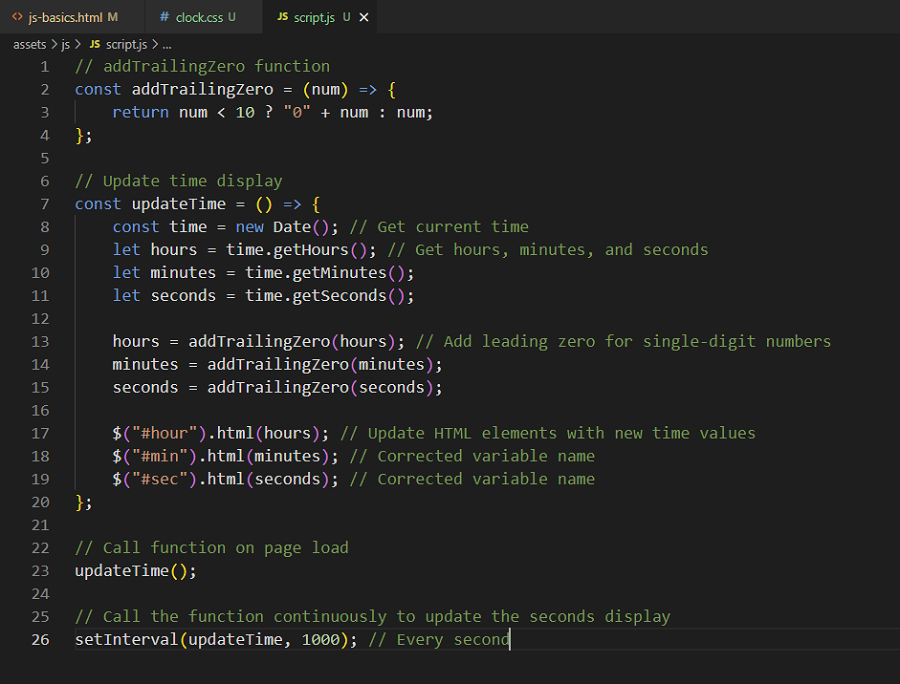
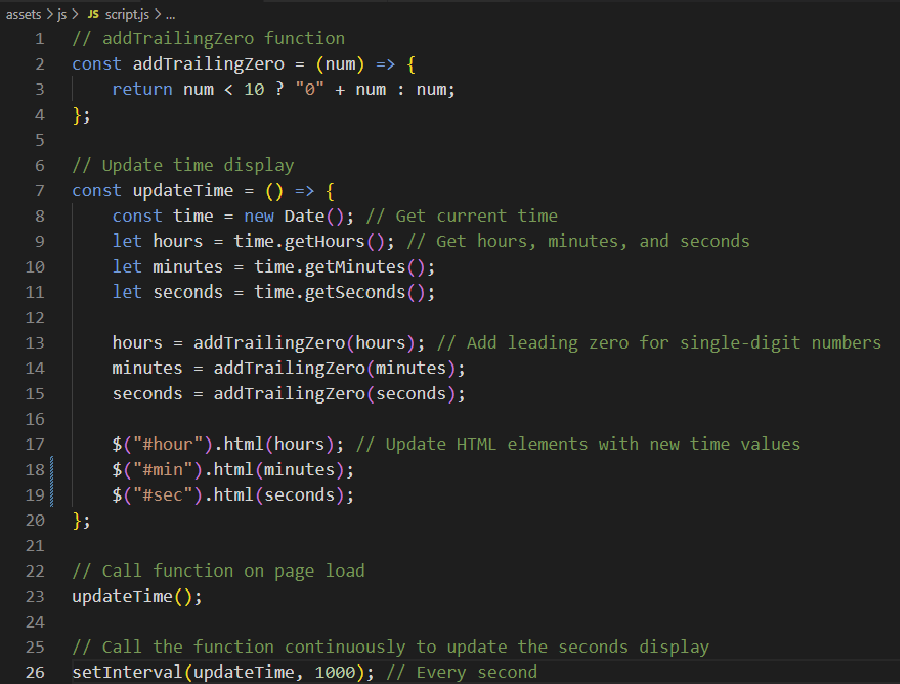
update js-basics website, new image and js code

Changed region(s): [[0.0, 0.0, 0.84, 1.0], [0.1244, 0.614, 0.9022, 0.7368], [0.1244, 0.4912, 0.9644, 0.5833]]

diff --git a/contact.html b/contact.html
@@ -12,14 +12,16 @@
         content="career change, frontend, web developer, new career at 50, new career at 40 , starting a new career at 50, career change 45+" />
     <meta name="author" content="Kal Development - Lorry127" />
     <!-- Title -->
-    <title>title</title>
+    <title>Contact</title>
     <!-- Favicon -->
     <link rel="apple-touch-icon" sizes="180x180" href="assets/favicon/apple-touch-icon.png">
     <link rel="icon" type="image/png" sizes="32x32" href="assets/favicon/favicon-32x32.png">
     <link rel="icon" type="image/png" sizes="16x16" href="assets/favicon/favicon-16x16.png">
     <link rel="manifest" href="assets/favicon/site.webmanifest" />
-    <!-- Stylesheet -->
+    <!-- Stylesheet Global -->
     <link rel="stylesheet" href="assets/css/style.css" />
+    <!-- Stylesheet Form -->
+    <link rel="stylesheet" href="assets/css/form.css">
 </head>
 
 <body>
@@ -49,7 +51,62 @@
 
     <!-- Main content -->
     <main>
-        Main Content
+        <section>
+
+        </section>
+        <section>
+            <form target="_blank" action="https://formdump.codeinstitute.net" method="POST">
+                <fieldset>
+                    <legend>
+                        <h3>Your details:</h3>
+                    </legend>
+                    <div>
+                        <div>
+                            <label for="name-field">
+                                <h4>Name:</h4>
+                            </label>
+                            <input id="name-field" type="text" name="full_name" placeholder="Your name" required />
+                        </div>
+                        <div>
+                            <label for="email-field">
+                                <h4>Email:</h4>
+                            </label>
+                            <input id="email-field" type="email" name="email" placeholder="Your email" required />
+                        </div>
+                </fieldset>
+                <fieldset>
+                    <legend>
+                        <h3>Your age:</h3>
+                    </legend>
+                    <div id="age">
+                        <label for="under-40">under 40</label>
+                        <input type="radio" name="under-40" id="under-40" value="under-40" required />
+                        <label for="over-40">40+</label>
+                        <input type="radio" name="over-40" id="over-40" value="over-40" required />
+                        <label for="over-50">50+</label>
+                        <input type="radio" name="over-50" id="over-50" value="over-50" required />
+                    </div>
+                </fieldset>
+                <fieldset>
+                    <label for="referrer">
+                        <h4>How did you hear about us?</h4>
+                        <select name="referrer" id="referrer">
+                            <option value="">(select one)</option>
+                            <option value="1">Google search</option>
+                            <option value="2">YouTube Channel</option>
+                            <option value="3">Kal`s Student-X Blog</option>
+                            <option value="4">Other</option>
+                        </select>
+                    </label>
+                    <label for="motivation">
+                        <h4>Motivation for a Career-Change:</h4>
+                        <textarea name="motivation" id="motivation" cols="30" rows="3"
+                            placeholder="I like coding late night..."></textarea>
+                    </label>
+                </fieldset>
+                <input type="submit" value="Submit" />
+            </form>
+        </section>
     </main>
 
     <!-- Footer -->

diff --git a/assets/css/form.css b/assets/css/form.css
@@ -1,0 +1,75 @@
+label {
+    display: block;
+    margin: 1rem 0;
+}
+
+form {
+    margin: 0 auto;
+    max-width: 500px;
+    min-width: 300px;
+    width: 100vw;
+    padding-bottom: 2em;
+}
+
+fieldset {
+    margin: 1rem;
+    border: none;
+    padding: 1rem 0;
+    border-bottom: 3px solid var(--clr-primary);
+}
+
+input,
+textarea,
+select {
+    width: 100%;
+    margin: 10px 0 0 0;
+    min-height: 2em;
+    background-color: var(--clr-primary);
+    color: var(--clr-primary-text);
+}
+
+input[type="radio"] {
+    min-height: 4em;
+    width: 10%;
+    padding: 1em 2em;
+    margin: 1em;
+
+}
+
+
+input,
+textarea {
+    background-color: var(--clr-primary);
+    border: 1px solid;
+    color: var(--clr-primary-text);
+}
+
+input[type="submit"] {
+    display: block;
+    width: 50%;
+    min-width: 300px;
+    margin: 1em auto;
+    height: 2em;
+    font-size: 1.1rem;
+    background-color: var(--clr-primary);
+    color: var(--clr-primary-text);
+    border-color: none;
+    border-radius: 0.5rem;
+    cursor: pointer;
+    transition: transform 300ms ease-in;
+}
+
+input[type="submit"]:hover {
+    background-color: var(--clr-primary-text);
+    color: var(--clr-primary);
+}
+
+#age {
+    min-width: 300px;
+    margin-top: 16px;
+    display: flex;
+    flex-direction: row;
+    justify-content: space-evenly;
+    align-items: center;
+
+}

diff --git a/js-basics.html b/js-basics.html
@@ -12,7 +12,7 @@
         content="career change, frontend, web developer, JavaScript basics, JavaScript essentials, JavaScript introduction, career change 45+" />
     <meta name="author" content="Kal Development - Lorry127" />
     <!-- Title -->
-    <title>title</title>
+    <title>js-basics</title>
     <!-- Favicon -->
     <link rel="apple-touch-icon" sizes="180x180" href="assets/favicon/apple-touch-icon.png">
     <link rel="icon" type="image/png" sizes="32x32" href="assets/favicon/favicon-32x32.png">
@@ -26,7 +26,7 @@
 
 <body>
     <!-- Header -->
-    <header>
+    <header id="home">
         <div class="container-header">
             <span id="logo">Student-X</span>
             <label for="navbar-toggle" class="navbar-toggle-label">
@@ -147,6 +147,12 @@
                 </div>
             </div>
         </section>
+        <!-- Back to top button -->
+        <div class="back-to-top-container">
+            <a href="#home" class="back-to-top-icon" aria-label="Scroll to Top">
+                <i class="fa-solid fa-angles-up"></i>
+            </a>
+        </div>
     </main>
 
     <!-- Footer -->

diff --git a/index.html b/index.html
@@ -12,7 +12,7 @@
     content="career change, frontend, web developer, html basics, css basics, JavaScript basics, frontend, web developer, new career at 50, new career at 40 , starting a new career at 50, career change 45+" />
   <meta name=" author" content="Kal Development - Lorry127" />
   <!-- Title -->
-  <title>title</title>
+  <title>Student-X</title>
   <!-- Favicon -->
   <link rel="apple-touch-icon" sizes="180x180" href="assets/favicon/apple-touch-icon.png">
   <link rel="icon" type="image/png" sizes="32x32" href="assets/favicon/favicon-32x32.png">

diff --git a/html-basics.html b/html-basics.html
@@ -12,7 +12,7 @@
         content="career change, frontend, web developer, CSS basics, CSS essentials, CSS introduction, career change 45+" />
     <meta name="author" content="Kal Development - Lorry127" />
     <!-- Title -->
-    <title>title</title>
+    <title>html-basics</title>
     <!-- Favicon -->
     <link rel="apple-touch-icon" sizes="180x180" href="assets/favicon/apple-touch-icon.png">
     <link rel="icon" type="image/png" sizes="32x32" href="assets/favicon/favicon-32x32.png">

diff --git a/css-basics.html b/css-basics.html
@@ -12,7 +12,7 @@
         content="career change, frontend, web developer, CSS basics, CSS essentials, CSS introduction, career change 45+" />
     <meta name="author" content="Kal Development - Lorry127" />
     <!-- Title -->
-    <title>title</title>
+    <title>css-basics</title>
     <!-- Favicon -->
     <link rel="apple-touch-icon" sizes="180x180" href="assets/favicon/apple-touch-icon.png">
     <link rel="icon" type="image/png" sizes="32x32" href="assets/favicon/favicon-32x32.png">

diff --git a/assets/js/script.js b/assets/js/script.js
@@ -15,8 +15,8 @@ const updateTime = () => {
     seconds = addTrailingZero(seconds);
 
     $("#hour").html(hours); // Update HTML elements with new time values
-    $("#min").html(minutes); // Corrected variable name
-    $("#sec").html(seconds); // Corrected variable name
+    $("#min").html(minutes);
+    $("#sec").html(seconds);
 };
 
 // Call function on page load
